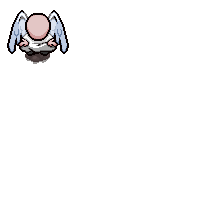
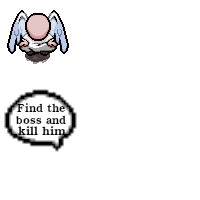
(|) the bulle appear when the player is behind the npc

Changed region(s): [[0.0, 0.42, 0.39, 0.78]]

diff --git a/menu/sources/npc.c b/menu/sources/npc.c
@@ -7,14 +7,27 @@
 
 #include "../includes/motor.h"
 
-void init_npc(window *wndw, options *sprt) {
+void init_bulle_npc(window *wndw, options *sprt)
+{
+    sfVector2f prems = {240, 180};
+    sfIntRect first = {0, 86, 80, 69};
+    sprt->spbulle_npc = sfSprite_create();
+    sfSprite_setTexture(sprt->spbulle_npc, sprt->text_npc, sfTrue);
+    sfSprite_setTextureRect(sprt->spbulle_npc, first);
+    sfSprite_setPosition(sprt->spbulle_npc, prems);
+    sfSprite_setScale(sprt->spbulle_npc, (sfVector2f) {2, 2});
+}
+
+void init_npc(window *wndw, options *sprt)
+{
     sfVector2f prems = {300, 250};
-    sfIntRect first = {0, 0, 74, 67};
+    sfIntRect first = {0, 0, 81, 72};
     sprt->npc = sfSprite_create();
     sfSprite_setTexture(sprt->npc, sprt->text_npc, sfTrue);
     sfSprite_setTextureRect(sprt->npc, first);
     sfSprite_setPosition(sprt->npc, prems);
     sfSprite_setScale(sprt->npc, (sfVector2f) {2, 2});
+    init_bulle_npc(wndw, sprt);
 }
 
 void touch_npc(sfVector2f player_pos, options *sprt, window *wndw)
@@ -25,8 +38,7 @@ void touch_npc(sfVector2f player_pos, options *sprt, window *wndw)
     sfIntRect player = (sfIntRect){player_pos.x, player_pos.y, 28 * 3, 33 * 3};
     sfIntRect overlap = (sfIntRect){1, 1, 1, 1};
     if (sfIntRect_intersects(&tmp, &player, &overlap))
-        printf("coucou\n");
-        // draw_text;
+        sfRenderWindow_drawSprite(wndw->window, sprt->spbulle_npc, NULL);
 }
 
 void draw_npc(window *wndw, options *sprt, room *rm, player *py)

diff --git a/menu/includes/menu.h b/menu/includes/menu.h
@@ -78,6 +78,7 @@ typedef struct {
     bool win_cond;
     sfTexture *text_npc;
     sfSprite *npc;
+    sfSprite *spbulle_npc;
 }options;
 
 typedef enum button_name {
